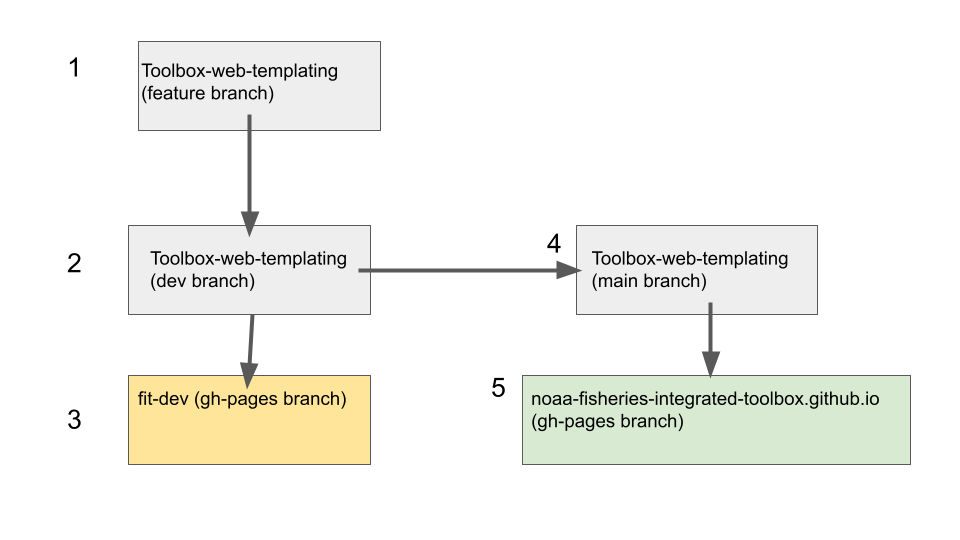
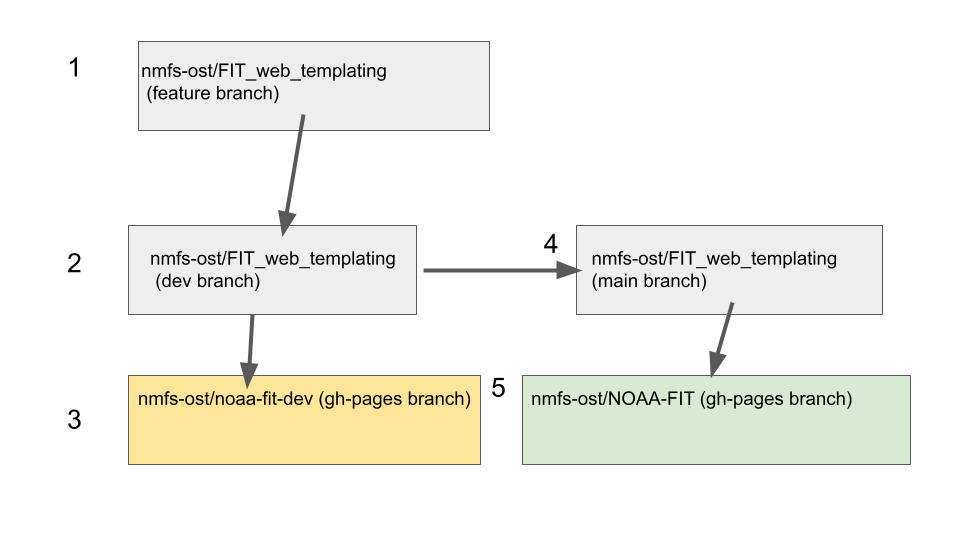
update readme

diff --git a/README.md b/README.md
@@ -6,17 +6,20 @@
 
 1. Try out new changes in a feature branch off of dev.
 2. Merge changes into dev. Once merged in, use a github action to build the html pages and deploy them to 3.
-3. The fit-dev repo is hosted on github pages. Navigate to nmfs-ost.github.io/noaa-fit-dev to preview the FIT website.
+3. The noaa-fit-dev repo is hosted on github pages. Navigate to nmfs-ost.github.io/noaa-fit-dev to preview the FIT website.
 4. Once confirming the dev pages look good, merge changes into 4 (for small changes, can consider squashing or rebasing instead). Once merged in, use a github action (done automatically) to build the html pages and deploy them to 5. Delete the dev branch and recreate it from (so that they are back in sync with the exact same commits).
 5. This is the production version of the NOAA fisheries site, advertised to the public.
 
 ## Webpage addresses on production
 
- - FIT landing page (https://nmfs-ost.github.io/noaa-fit/ ; no change)
- - individual tool landing pages, toolbox hosted (https://nmfs-ost.github.io/noaa-fit/ASAP, for example; CHANGE from nmfs-fish-tools.github.io/ASAP)
+ - FIT landing page (https://nmfs-ost.github.io/noaa-fit/)
+ - individual tool landing pages, toolbox hosted (https://nmfs-ost.github.io/noaa-fit/ASAP)
 
 ## redirect pages
- - will need the nmfs-fish-tools.github.io (and other org .io repos) to redirect; same with nmfs-fish-tools.github.io/toolname. These redirect automatically or have a redirect link.
+
+The following repos contain files that automatically redirect the old website locations:
+ - https://github.com/nmfs-fish-tools/nmfs-fish-tools.github.io
+ - https://github.com/noaa-fisheries-integrated-toolbox/noaa-fisheries-integrated-toolbox.github.io
 
 ## Org Templating
 
